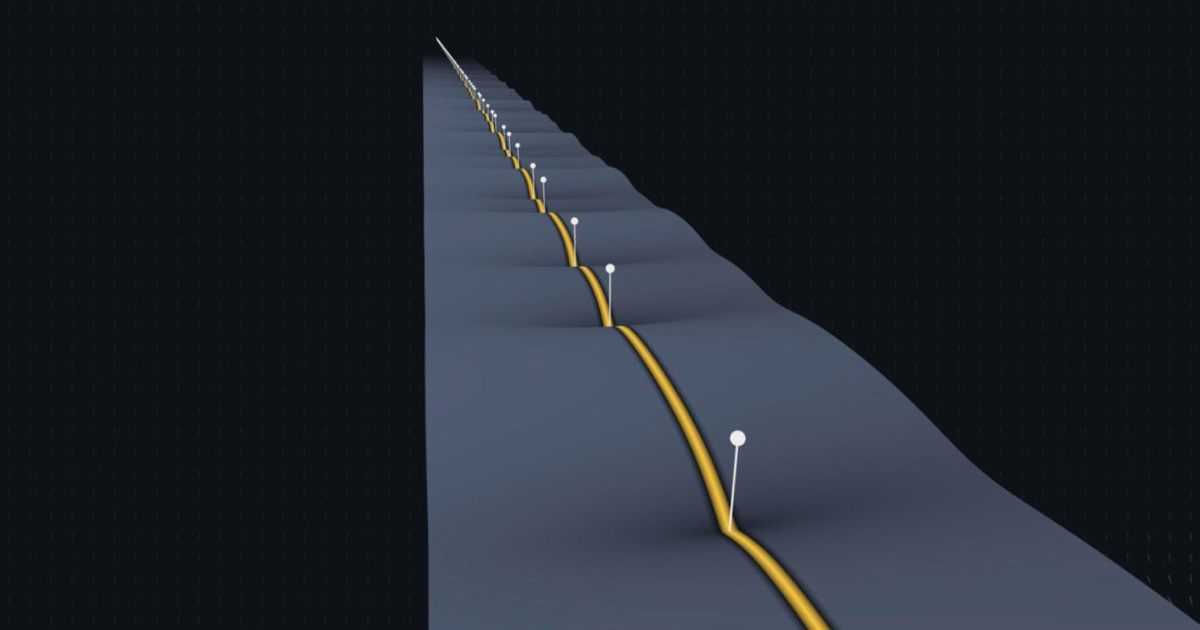
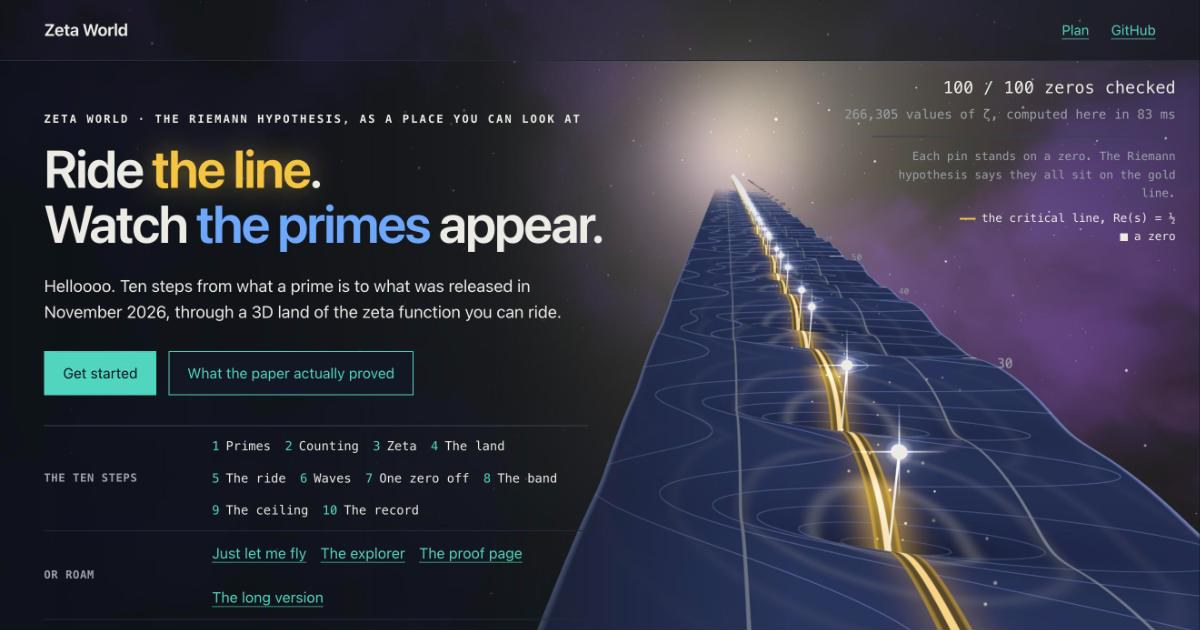
The link preview, the README and the plan show the page as it is now
og.jpg is the home page under its night sky, and the README opens on it. Both documents say
what the page now measures.

diff --git a/PLAN.md b/PLAN.md
@@ -11,9 +11,10 @@ Zeta landscapes and "zeros build the primes" sliders have been made many times, 
 Brought up to date on 22 Nov at about 3:30 PM, after the interactive guide (`GUIDE_BRIEF.md`) became the home page. The rest of this plan is as written at 1:30 PM.
 
 - **Live page:** https://alex-lop.github.io/zeta-world/ (GitHub Pages, served from `main` at the repo root). It is `index.html` plus plain ES modules in `guide/`, no build step, with three.js 0.187.0 loaded from jsDelivr through an import map, and only when a step first needs the 3D world.
-- **What it shows:** an intro with five choices, then a climb of ten steps, each with one thing to do: factor a number, count the primes, add zeta's arrows, look around the land, ride north past the first 100 zeros, watch their waves pile into spikes at the primes, drag one hypothetical zero off the line, see its wave break the primes out of their band, see where the announced proof's ceiling comes from, and read what was released and checked. `#fly` is the plain world with free controls.
+- **What it shows:** an intro, then a climb of ten steps, each with one thing to do: factor a number, count the primes, add zeta's arrows, look around the land, ride north past the first 100 zeros, watch their waves pile into spikes at the primes, drag one hypothetical zero off the line, see its wave break the primes out of their band, see where the announced proof's ceiling comes from, and read what was released and checked. `#fly` is the plain world with free controls.
 - **The world has changed its look, not its shape.** The land, the line, the 100 pins, the roll call and the start view are as tuned under "The world" below. The land is shaded by height, in the palette of Alex's Nemisis site, and since 22 Nov at 5 PM it floats in a night sky (`guide/astral.js`): the line is a beam of gold light with pulses running north, and each zero's pin carries a star. The ticks are behind the paper steps and the intro only. The phase colours are gone.
 - **What became of this plan's build steps.** Step 3, the primes panel, is the guide's step 6: the spikes only, with no staircase toggle. Step 4, the walls and slabs, is part of the guide's step 7: walls at 0 and 1 and stripes on the outer eighths stand with the hypothetical zero. Step 5, the tour, is the step shell: Next and Back, the step's name in the URL hash, arrow keys and Space, and rides that drive themselves if nobody does.
+- **Since 22 Nov at 6 PM the page measures, and says less.** Step 2 reads out how far x / ln x misses, step 3 how far the arrows end from ζ(s), step 6 how many of the 15 tallest spikes are primes, step 8 how much of the band the real primes use, and step 10 has the release's own figures. Under the roll call's count the world says how long its 266,305 values of ζ took to compute. Steps 2 and 3 play themselves if nobody drives, the step bar underlines the steps behind you, and the home page's links are one row, "Or roam". The words on every step were cut, not rewritten. `og.jpg` is the home page as it looks now.
 - **Not built:** step 0 (the card is Alex's to post), the staircase toggle, and everything under "Stretch".
 - **Other pages, all live:** `landscape.html`, the teammate's explorer (PRs #2 and #6), `proof.html`, his page on how the announced proof works (PR #6), and `learn.html`, the long read in 28 steps.
 

diff --git a/README.md b/README.md
@@ -2,6 +2,8 @@
 
 A way to visualize the Riemann hypothesis in 3D, built with Three.js for Sundai Hack 150 (Building 3D Worlds).
 
+[![The home page: the land of the zeta function under a night sky, with the critical line in gold and a star on each zero](og.jpg)](https://alex-lop.github.io/zeta-world/)
+
 **Live: https://alex-lop.github.io/zeta-world/** · [From primes to the proof, in 28 steps](https://alex-lop.github.io/zeta-world/learn.html) · [The plan](PLAN.md) · [Brief for the interactive guide](GUIDE_BRIEF.md)
 
 The home page is a guided climb in ten short steps, each with one thing to do:
@@ -17,7 +19,9 @@ The home page is a guided climb in ten short steps, each with one thing to do:
 9. See where the announced proof's ceiling comes from.
 10. Read what was released, what was checked and what is still needed.
 
-"Just let me fly" (`#fly`) is the plain 3D world with free controls. The look follows Alex's [Nemisis](https://alex-lop.github.io/Nemisis/) site, with the ticks of his personal site behind every screen. The hypothetical zero is fiction and is labelled so wherever it shows.
+The page measures as it goes, in the visitor's browser: how far x / ln x misses the count, how many of the 15 tallest spikes are primes (15 of 15 by the end of the ride), how much of their band the real primes use (49%), and how long the land's 266,305 values of ζ took to compute.
+
+"Just let me fly" (`#fly`) is the plain 3D world with free controls. The look follows Alex's [Nemisis](https://alex-lop.github.io/Nemisis/) site: the 3D world floats in a night sky, and the ticks of his personal site are behind the other screens. The hypothetical zero is fiction and is labelled so wherever it shows.
 
 ## Status of the math
 
